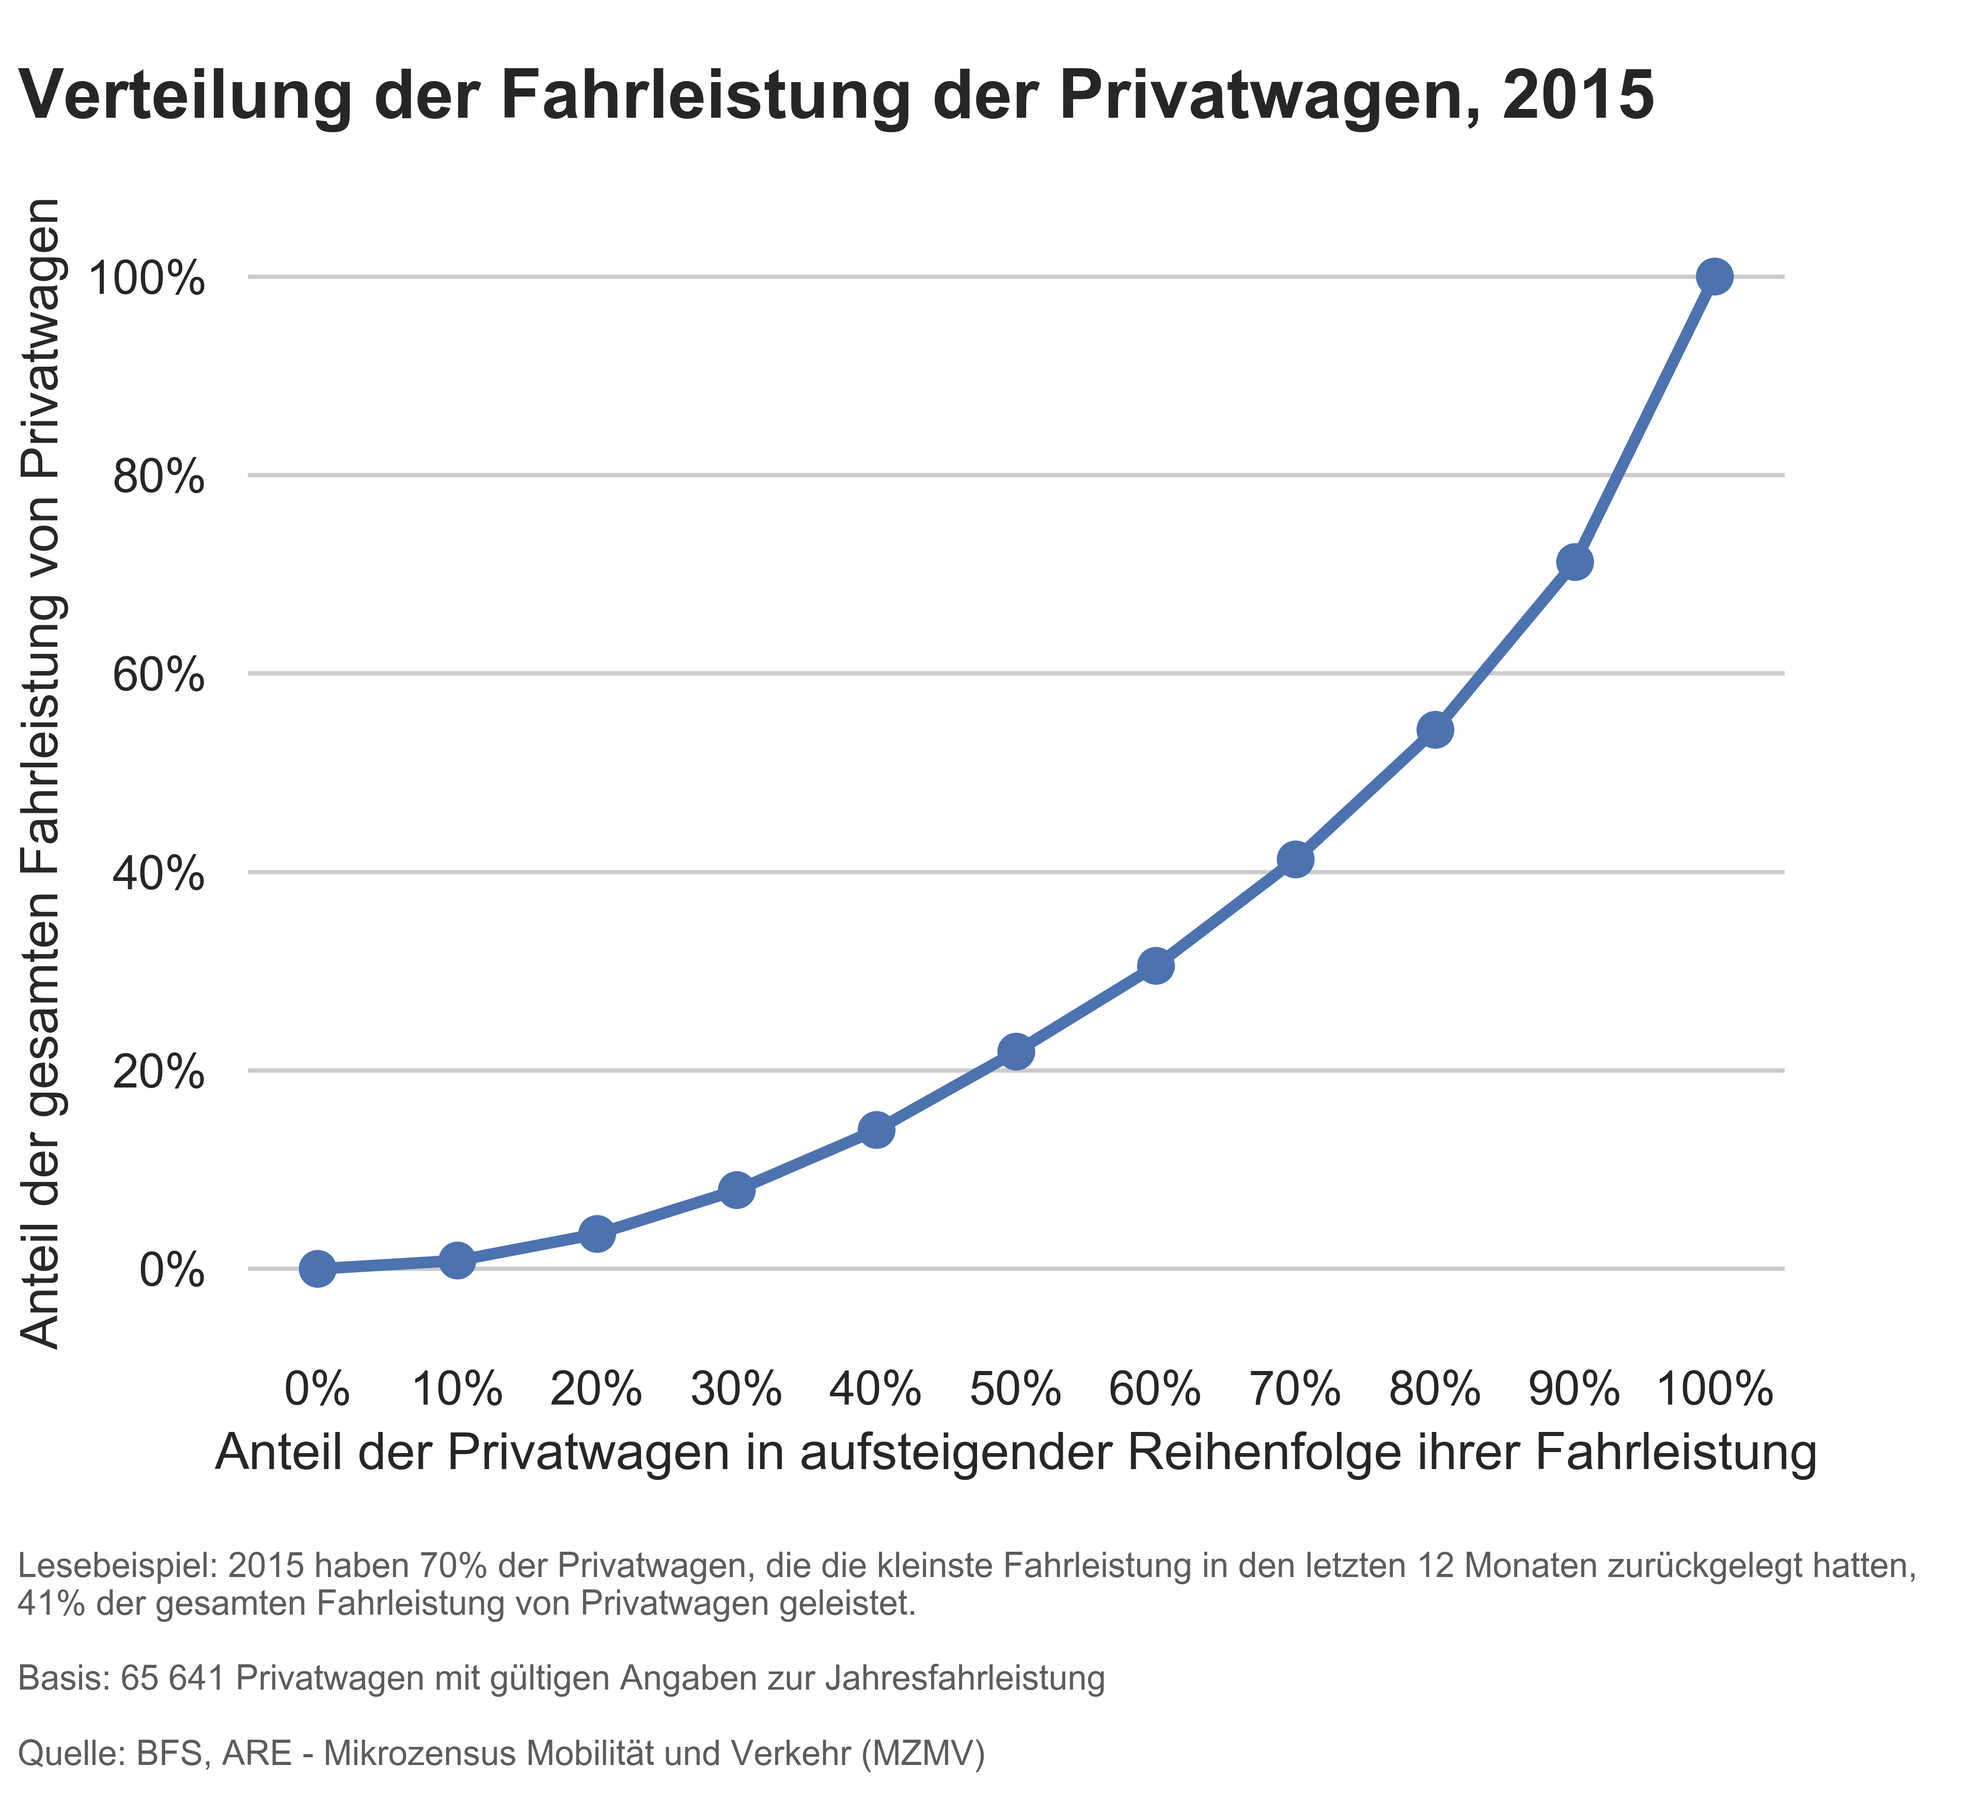
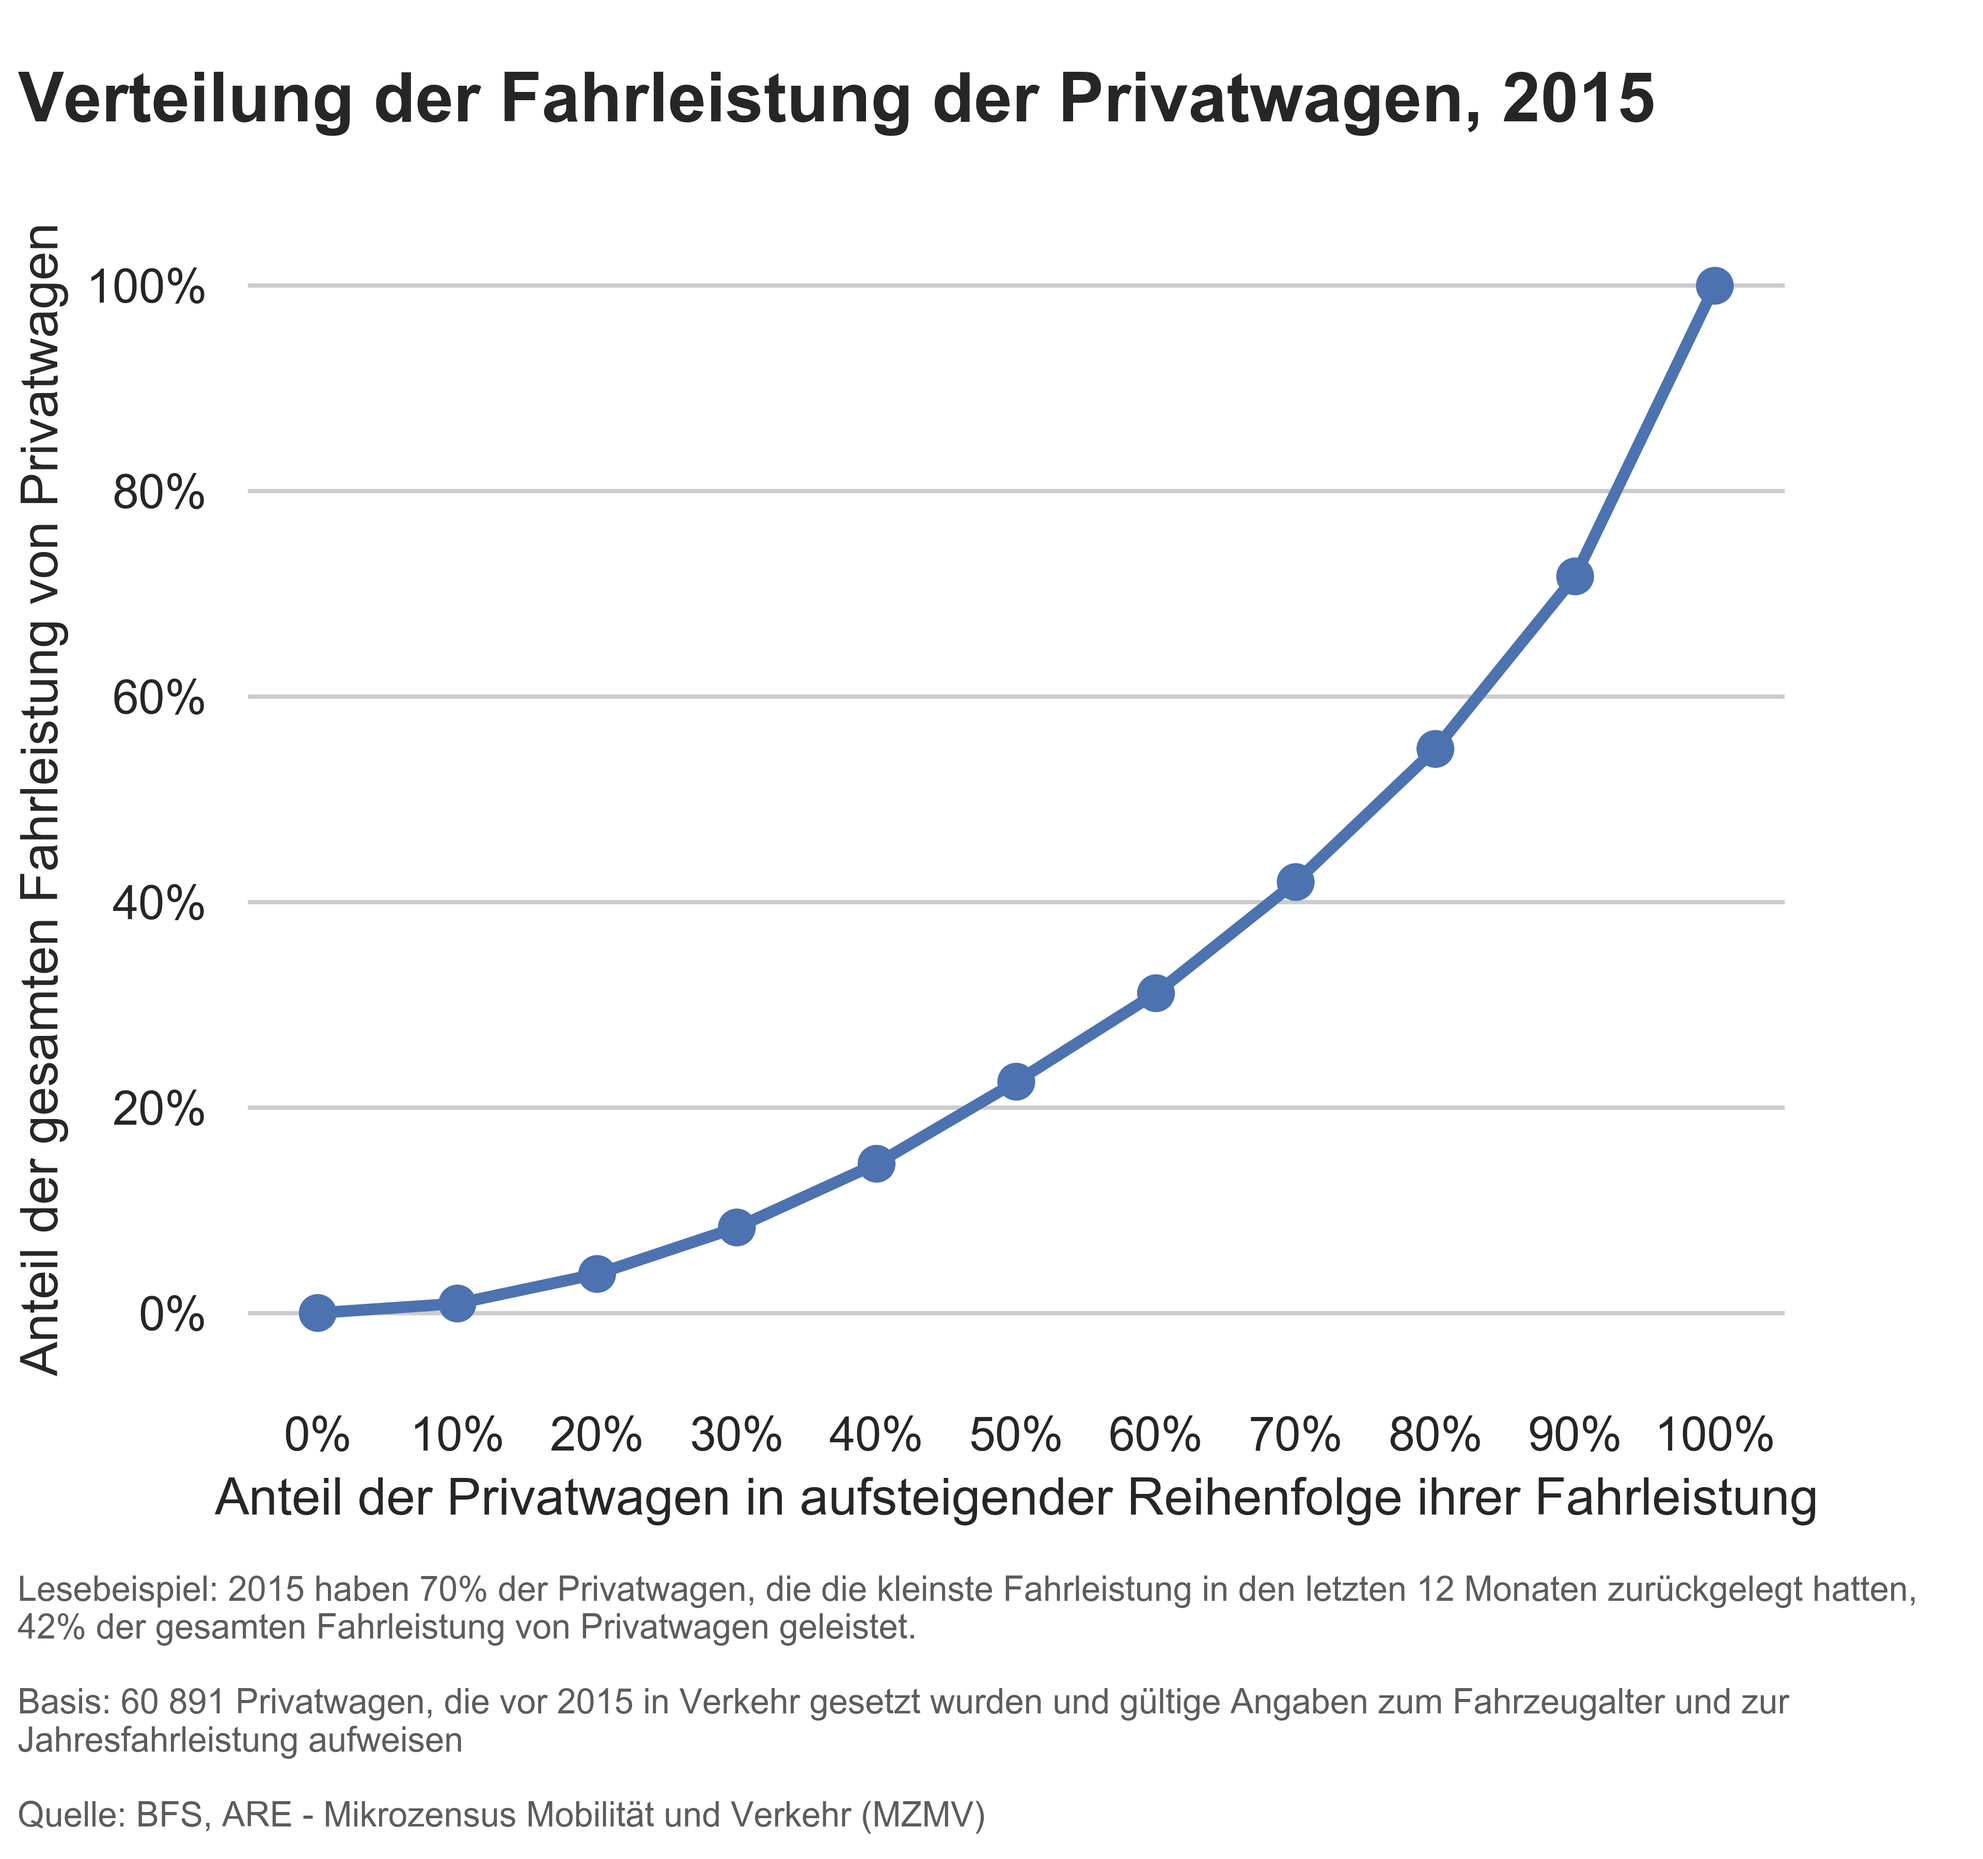
New statistical base: - without cars put into service before 2015 - without cars with unknown "age"

diff --git a/src/run_car_mileage_in_Switzerland_in_2015.py b/src/run_car_mileage_in_Switzerland_in_2015.py
@@ -36,21 +36,24 @@ def plot_figures(df_km_per_interval, nb_observations):
                           'précédents ont réalisé ' + str(cumulative_nb_km_prop_for_70_pc) +
                           '% du kilométrage total des voitures privées.\n\n'
                           'Base: ' + str("{0:,g}".format(nb_observations)).replace(",", " ") +
-                          ' voitures privées dont le kilométrage des 12 derniers mois est connu\n\n'
+                          ' voitures privées qui ont été mises en circulation avant 2015 et avec indication valable de '
+                          "l'âge du véhicule et\ndes prestations kilométriques annuelles\n\n"
                           'Source: OFS, ARE - Microrecensement mobilité et transports (MRMT)',
                     'de': 'Lesebeispiel: 2015 haben 70% der Privatwagen, die die kleinste Fahrleistung in den letzten '
                           '12 Monaten zurückgelegt hatten,\n' + str(cumulative_nb_km_prop_for_70_pc) +
                           '% der gesamten Fahrleistung von Privatwagen geleistet.\n\n'
                           'Basis: ' + str("{0:,g}".format(nb_observations)).replace(",", " ") +
-                          ' Privatwagen mit gültigen Angaben zur Jahresfahrleistung\n\n'
+                          ' Privatwagen, die vor 2015 in Verkehr gesetzt wurden und gültige Angaben zum Fahrzeugalter '
+                          'und zur\nJahresfahrleistung aufweisen\n\n'
                           'Quelle: BFS, ARE - Mikrozensus Mobilität und Verkehr (MZMV)',
                     'en': 'Reading example: in 2015, 70% of privately owned cars with the smallest mileage in the 12 '
                           'last months traveled\n' + str(cumulative_nb_km_prop_for_70_pc) +
                           '% of the total mileage of privately owned cars.\n\n'
                           'Basis: ' + str("{0:,g}".format(nb_observations)).replace(",", " ") +
-                          ' privately owned cars with a valid mileage the last 12 months\n\n'
+                          ' privately owned cars that were put into service before 2015 and with a valid age of the '
+                          'vehicule and mileage\nin the last 12 months\n\n'
                           'Source: FSO, ARE - Mobility and Transport Microcensus (MTMC)'}
-    sns.set(rc={'figure.figsize': (6.4, 5.8)})
+    sns.set(rc={'figure.figsize': (6.4, 6.0)})
     sns.set_style("whitegrid", {'axes.spines.bottom': False,
                                 'axes.spines.left': False,
                                 'axes.spines.right': False,
@@ -91,7 +94,7 @@ def sum_observations_by_intervals(df_vehicles, nb_intervals):
 
 
 def get_nb_km_in_last_12_months_with_weights():
-    selected_columns = ['WM', 'fahrzeugart', 'f30800_31600', 'f30900_31700']
+    selected_columns = ['WM', 'fahrzeugart', 'f30800_31600', 'f30900_31700', 'f30600_31500', 'f30601_31501']
     df_vehicles = get_vehicles(selected_columns=selected_columns)
     # Rename variables
     df_vehicles = df_vehicles.rename(columns={'WM': 'household_weight',
@@ -103,10 +106,24 @@ def get_nb_km_in_last_12_months_with_weights():
                                               # -98: no answer,
                                               # -99: no mileage (0 km) or
                                               # no answer to question about total mileage
+                                              'f30600_31500': 'matriculation_year',  # -98: no answer
+                                                                                     # -97: doesn't know
+                                              'f30601_31501': 'matriculation_month'  # -99: before 2014 and not in MOFIS
+                                                                                     # -98: no answer
+                                                                                     # -97: doesn't know
                                               })
     # Select cars only (no motorbikes)
     df_vehicles = df_vehicles[df_vehicles['type_of_vehicle'] == 1]
     del df_vehicles['type_of_vehicle']
+    # Select only cars with matriculation year before 2015
+    df_vehicles = df_vehicles[df_vehicles['matriculation_year'] < 2015]
+    df_vehicles = df_vehicles[df_vehicles['matriculation_year'] != -98]
+    df_vehicles = df_vehicles[df_vehicles['matriculation_year'] != -97]
+    del df_vehicles['matriculation_year']
+    # Select only cars with matriculation month known
+    df_vehicles = df_vehicles[df_vehicles['matriculation_month'] != -98]
+    df_vehicles = df_vehicles[df_vehicles['matriculation_month'] != -97]
+    del df_vehicles['matriculation_month']
     # Replace the -99 value by 0 in the nb of km in the last 12 months if the vehicle has no mileage at all
     df_vehicles.loc[df_vehicles['total_mileage'] == 0, 'nb_km_in_last_12_months'] = 0
     del df_vehicles['total_mileage']
@@ -115,7 +132,7 @@ def get_nb_km_in_last_12_months_with_weights():
     df_vehicles = df_vehicles[df_vehicles.nb_km_in_last_12_months != -98]
     df_vehicles = df_vehicles[df_vehicles.nb_km_in_last_12_months != -99]
     nb_observations = len(df_vehicles)
-    print('Number of private cars with known mileage:', nb_observations)
+    print('Number of private cars with known mileage and known matriculation time:', nb_observations)
     ''' Sort the nb of km made in the last 12 months:
     Here we sort by the nb of km in the last 12 months and not by the *weighted* nb of km in the last 12 months. 
     A vehicle with a high mileage, say 40'000 km in the last 12 months, must be at the top of ranking, independently of 
